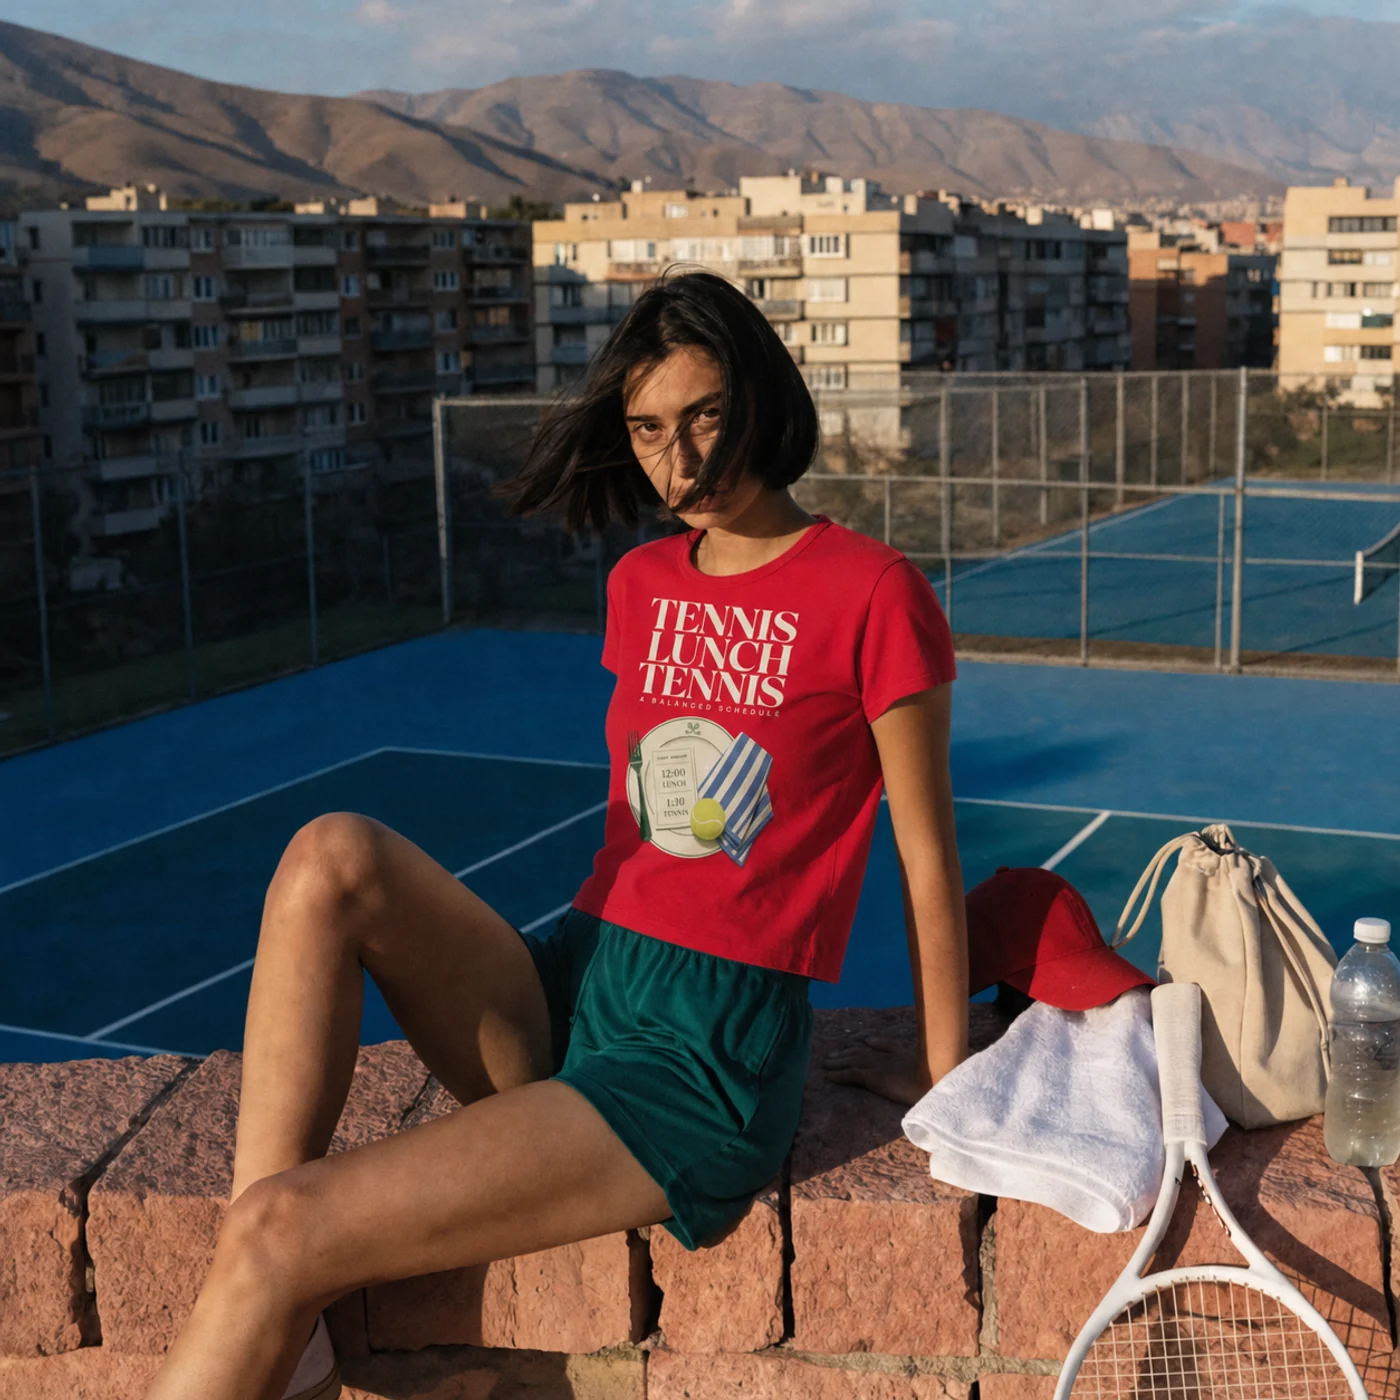
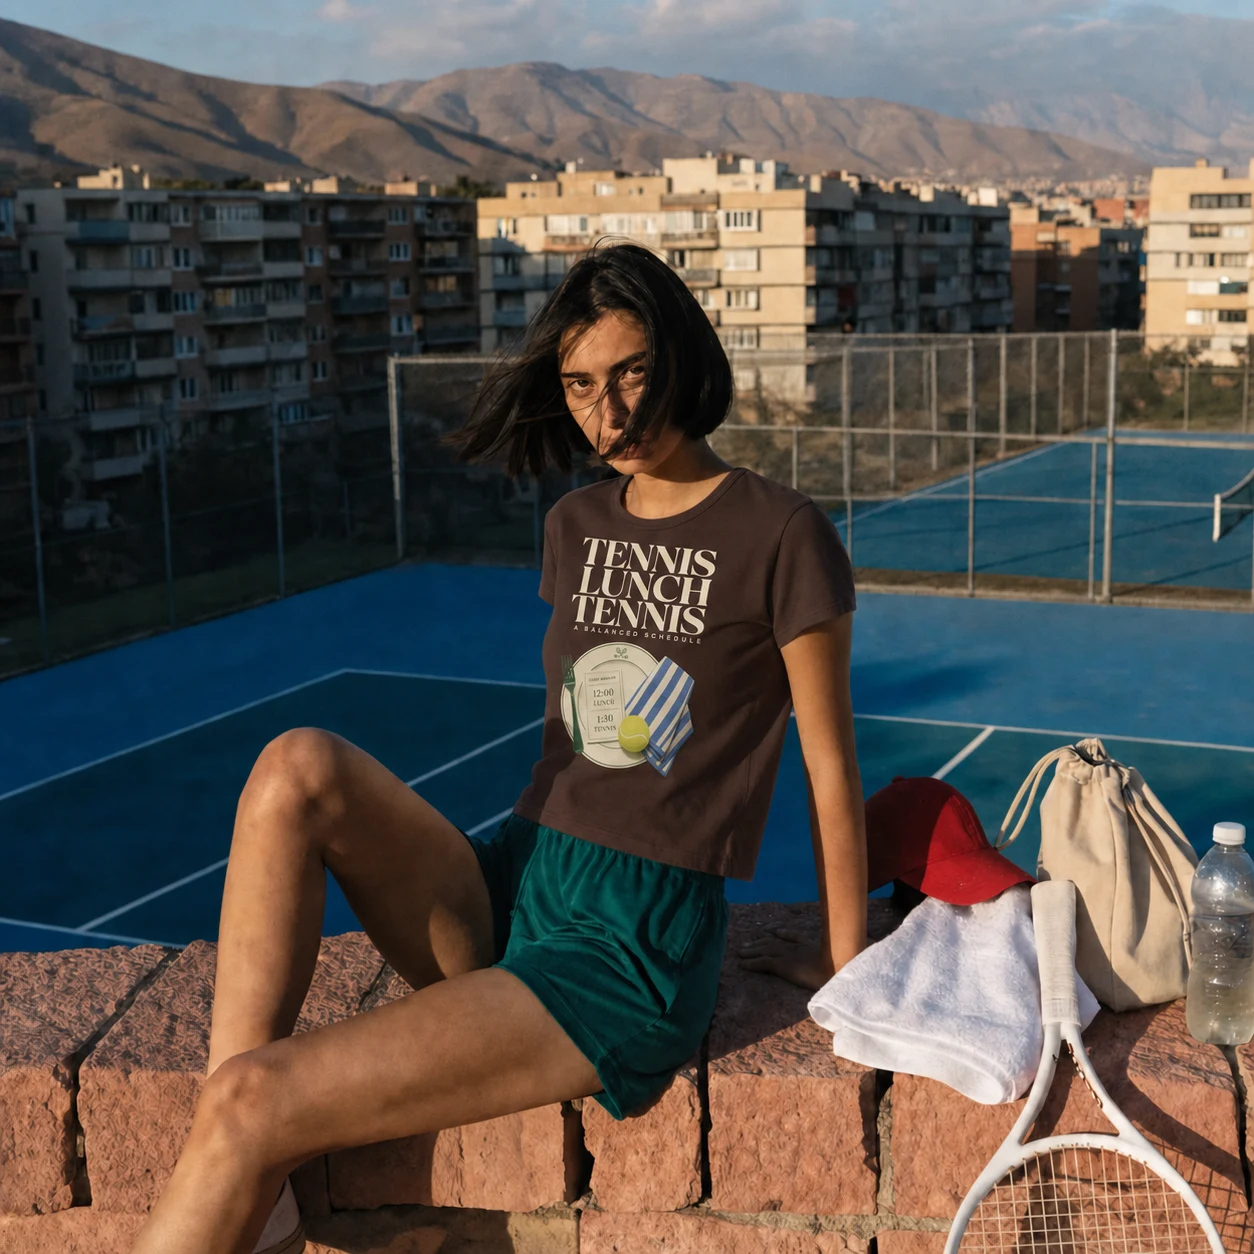
Curate premium product galleries

diff --git a/src/data/catalog.ts b/src/data/catalog.ts
@@ -48,7 +48,11 @@ export type CatalogProduct = {
   maxPrice: number;
   image: string;
   images: string[];
+  catalogImages: string[];
+  editorialImages: string[];
   editorialImage?: string;
+  featuredColor?: string;
+  featuredSize?: string;
   variants: ProductVariant[];
   information: ProductInformation[];
   source: "fourthwall";
@@ -60,103 +64,134 @@ export type ProductPresentation = Pick<
 > & {
   legacySlugs?: string[];
   editorialImage?: string;
+  editorialImages?: string[];
+  catalogImages?: string[];
+  featuredColor?: string;
+  featuredSize?: string;
 };
+
+function curatedImages(slug: string, existingEditorial: string) {
+  return {
+    catalogImages: [
+      `/images/products/curated/${slug}/catalog-01.webp`,
+      `/images/products/curated/${slug}/catalog-02.webp`,
+    ],
+    editorialImages: [
+      existingEditorial,
+      `/images/products/curated/${slug}/editorial-02.webp`,
+    ],
+    editorialImage: existingEditorial,
+  };
+}
 
 export const productPresentation: Record<string, ProductPresentation> = {
   "b13b023b-29b9-4c23-a9e9-2bbe271e623b": {
+    ...curatedImages("tennis-lunch-tennis-tee", "/images/products/editorial/tennis-lunch-tennis-tee-v2.webp"),
     category: "Tees",
     productType: "Heavyweight tee",
     capsule: "The Daily Lineup",
     sortRank: 10,
-    editorialImage: "/images/products/editorial/tennis-lunch-tennis-tee-v2.webp",
+    featuredColor: "Midnight",
     story: "The day’s order, printed plainly: tennis, lunch, tennis. A heavyweight court tee for red clay, long tables and the match that somehow begins at sunset.",
   },
   "c805433b-9cfc-43bf-babe-4482f1be9e35": {
+    ...curatedImages("tennis-lunch-tennis-crop-tee", "/images/products/editorial/tennis-lunch-tennis-crop-tee-v2.webp"),
     category: "Tees",
     productType: "Crop tee",
     capsule: "The Daily Lineup",
     sortRank: 20,
-    editorialImage: "/images/products/editorial/tennis-lunch-tennis-crop-tee-v2.webp",
+    featuredColor: "Brown",
     story: "The cropped edition of our preferred itinerary. Close to the body, easy through the afternoon and unlikely to improve your willingness to leave the court.",
   },
   "044a54cc-c0b9-4a80-bc08-6eb95b85f205": {
+    ...curatedImages("out-of-office-court-cap", "/images/products/editorial/out-of-office-court-cap-v2.webp"),
     category: "Accessories",
     productType: "Court cap",
     capsule: "The Daily Lineup",
     sortRank: 30,
-    editorialImage: "/images/products/editorial/out-of-office-court-cap-v2.webp",
+    featuredColor: "Maroon",
     story: "A low-profile court cap with a complete absence notice: ON COURT up front, OUT OF OFFICE at the side, return time still unconfirmed.",
   },
   "5f2234ee-c019-43ae-b6c4-e86b67bbe57b": {
+    ...curatedImages("something-cold-organic-court-tote", "/images/products/editorial/something-cold-organic-court-tote-v2.webp"),
     category: "Accessories",
     productType: "Organic tote",
     capsule: "Court-Side Pleasures",
     sortRank: 40,
-    editorialImage: "/images/products/editorial/something-cold-organic-court-tote-v2.webp",
+    featuredColor: "Oyster",
     story: "Room for the spare shirt, the towel and one cold thing after play. The organic-cotton twill is substantial enough for daily court duty.",
   },
   "5e4a6f7c-440a-4183-82a8-9fd4df6f6235": {
+    ...curatedImages("racquets-sunshine-something-cold-beach-towel", "/images/products/editorial/racquets-sunshine-towel-v2.webp"),
     category: "Accessories",
     productType: "Beach towel",
     capsule: "Court-Side Pleasures",
     sortRank: 50,
-    editorialImage: "/images/products/editorial/racquets-sunshine-towel-v2.webp",
+    featuredColor: "White",
     story: "An edge-to-edge still life for the bench, pool or beach, with a soft printed face and an absorbent terry reverse.",
   },
   "a29cbcd4-c4e8-433b-acc3-2af51ae8d7be": {
+    ...curatedImages("love-cherries-crop-tee", "/images/products/editorial/love-cherries-crop-tee-v2.webp"),
     category: "Tees",
     productType: "Crop tee",
     capsule: "Love Cherries",
     sortRank: 60,
-    editorialImage: "/images/products/editorial/love-cherries-crop-tee-v2.webp",
+    featuredColor: "Pale Pink",
     story: "Two tennis balls, one fine serve and a slightly romantic reading of the score. A relaxed crop for the softer side of competitive behavior.",
   },
   "4dc8e8fd-eafa-43ff-969a-3d5c617901fc": {
+    ...curatedImages("love-cherries-oversized-tee", "/images/products/editorial/love-cherries-oversized-tee-v2.webp"),
     category: "Tees",
     productType: "Oversized tee",
     capsule: "Love Cherries",
     sortRank: 70,
-    editorialImage: "/images/products/editorial/love-cherries-oversized-tee-v2.webp",
+    featuredColor: "Ecru",
     story: "The Love Cherries mark on a roomy midweight tee, cut for dropped shoulders and the very long walk from court to lunch.",
   },
   "d16cddbe-56e5-4258-9237-ec8b4af2d22d": {
+    ...curatedImages("love-cherries-magsafe-case", "/images/products/editorial/love-cherries-magsafe-case-v2.webp"),
     category: "Accessories",
     productType: "MagSafe case",
     capsule: "Love Cherries",
     sortRank: 80,
-    editorialImage: "/images/products/editorial/love-cherries-magsafe-case-v2.webp",
+    featuredColor: "Glossy",
+    featuredSize: "iPhone 17 Pro Max",
     story: "The tennis-ball cherry mark composed around the camera on a warm ivory field. A glossy protective case for supported iPhone models.",
   },
   "016f8881-3755-42e9-a551-db711defea07": {
+    ...curatedImages("tennis-is-my-rest-day-tee-dtfx", "/images/products/editorial/tennis-is-my-rest-day-tee-v2.webp"),
     category: "Tees",
     productType: "Heavyweight tee",
     capsule: "Repeat Players",
     sortRank: 90,
-    editorialImage: "/images/products/editorial/tennis-is-my-rest-day-tee-v2.webp",
+    featuredColor: "Butter",
     story: "Recovery, according to repeat players: back on court with the racquet in reach. Heavyweight cotton and a straight-faced illustrated alibi.",
   },
   "fa963175-0030-4e47-b20d-f7d680768433": {
+    ...curatedImages("emotional-support-racquet-oversized-tee", "/images/products/editorial/emotional-support-racquet-tee-v2.webp"),
     category: "Tees",
     productType: "Oversized tee",
     capsule: "Repeat Players",
     sortRank: 100,
-    editorialImage: "/images/products/editorial/emotional-support-racquet-tee-v2.webp",
+    featuredColor: "Ecru",
     story: "For the racquet that comes to dinner, the beach and at least one wedding. The full resort illustration sits across the back.",
   },
   "d20d2671-af7b-47d4-ab2b-e170efce279d": {
+    ...curatedImages("signed-rally-founding-issue-crop-tee", "/images/products/editorial/signed-rally-crop-tee-v2.webp"),
     category: "Tees",
     productType: "Crop tee",
     capsule: "Signed Rally — Founding Issue",
     sortRank: 110,
-    editorialImage: "/images/products/editorial/signed-rally-crop-tee-v2.webp",
+    featuredColor: "Ecru",
     story: "The Society’s first uniform: a quiet chest mark, an oversized Signed Rally composition and a cropped silhouette made for one more set.",
   },
   "7345291f-a3a9-47f7-8e15-dea8fd04f7ad": {
+    ...curatedImages("signed-rally-founding-issue-oversized-tee", "/images/products/editorial/signed-rally-oversized-tee-v2.webp"),
     category: "Tees",
     productType: "Oversized tee",
     capsule: "Signed Rally — Founding Issue",
     sortRank: 120,
-    editorialImage: "/images/products/editorial/signed-rally-oversized-tee-v2.webp",
+    featuredColor: "Ecru",
     story: "The Founding Issue in its roomier form: central chest mark, oversized back composition and a faded-bone court uniform with no closing time.",
   },
 };

diff --git a/src/lib/catalog.ts b/src/lib/catalog.ts
@@ -96,10 +96,23 @@ function mapProduct(product: FourthwallProduct): CatalogProduct {
     colorHex: variant.attributes?.color?.swatch,
     size: variant.attributes?.size?.name,
     inStock: variantInStock(variant),
-    images: (variant.images ?? []).map(imageUrl).filter((value): value is string => Boolean(value)).slice(0, 8),
+    // Fourthwall's first two views are the product-only front/back renders. Later
+    // images are generic model mockups whose art direction varies by product.
+    images: (variant.images ?? []).map(imageUrl).filter((value): value is string => Boolean(value)).slice(0, 2),
   }));
-  const images = (product.images ?? []).map(imageUrl).filter((value): value is string => Boolean(value));
-  const uniqueImages = [...new Set(images)];
+  variants.sort((a, b) => {
+    const preference = (variant: ProductVariant) =>
+      Number(Boolean(presentation.featuredColor) && variant.color === presentation.featuredColor) * 2 +
+      Number(Boolean(presentation.featuredSize) && variant.size === presentation.featuredSize);
+    return preference(b) - preference(a);
+  });
+  const fourthwallImages = (product.images ?? []).map(imageUrl).filter((value): value is string => Boolean(value));
+  const uniqueFourthwallImages = [...new Set(fourthwallImages)];
+  const catalogImages = presentation.catalogImages?.length
+    ? presentation.catalogImages
+    : uniqueFourthwallImages.slice(0, 2);
+  const editorialImages = presentation.editorialImages ?? (presentation.editorialImage ? [presentation.editorialImage] : []);
+  const galleryImages = [...new Set([...catalogImages, ...editorialImages])];
   const availablePrices = variants.filter((variant) => variant.inStock).map((variant) => variant.price);
   const price = Math.min(...(availablePrices.length ? availablePrices : variants.map((variant) => variant.price)));
   const maxPrice = Math.max(...(availablePrices.length ? availablePrices : variants.map((variant) => variant.price)));
@@ -116,9 +129,13 @@ function mapProduct(product: FourthwallProduct): CatalogProduct {
     story: presentation.story,
     price: Number.isFinite(price) ? price : 0,
     maxPrice: Number.isFinite(maxPrice) ? maxPrice : 0,
-    image: uniqueImages[0] || variants[0]?.images[0] || "/images/riviera/laundry-hero-desktop.webp",
-    images: uniqueImages.slice(0, 8),
-    editorialImage: presentation.editorialImage,
+    image: catalogImages[0] || variants[0]?.images[0] || "/images/riviera/laundry-hero-desktop.webp",
+    images: galleryImages.length ? galleryImages : uniqueFourthwallImages.slice(0, 4),
+    catalogImages,
+    editorialImages,
+    editorialImage: editorialImages[0],
+    featuredColor: presentation.featuredColor,
+    featuredSize: presentation.featuredSize,
     variants,
     information: informationFrom(product.additionalInformation),
     source: "fourthwall",
